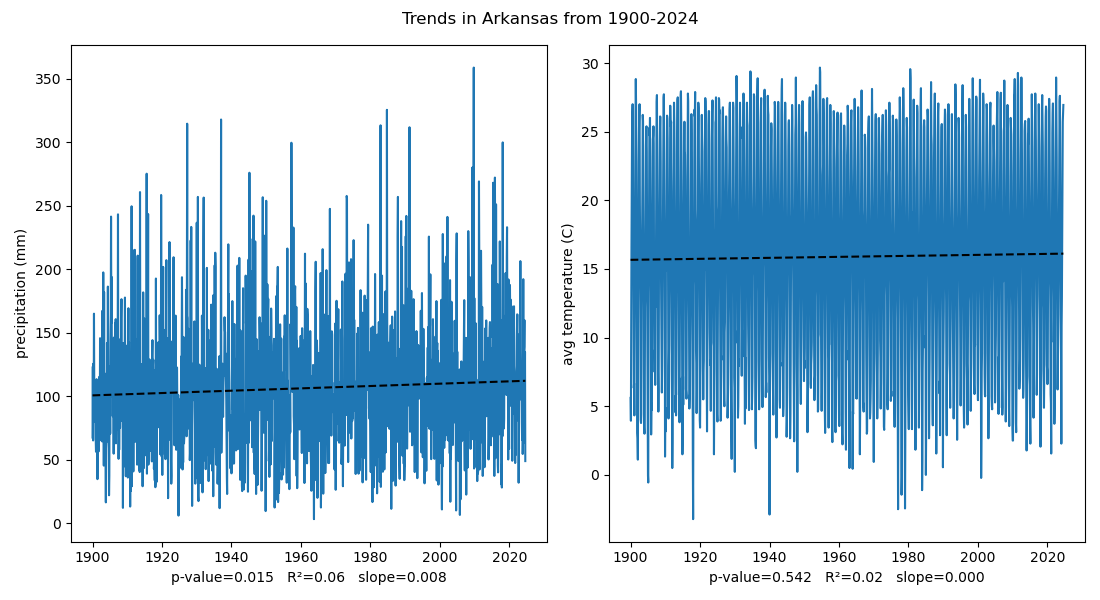
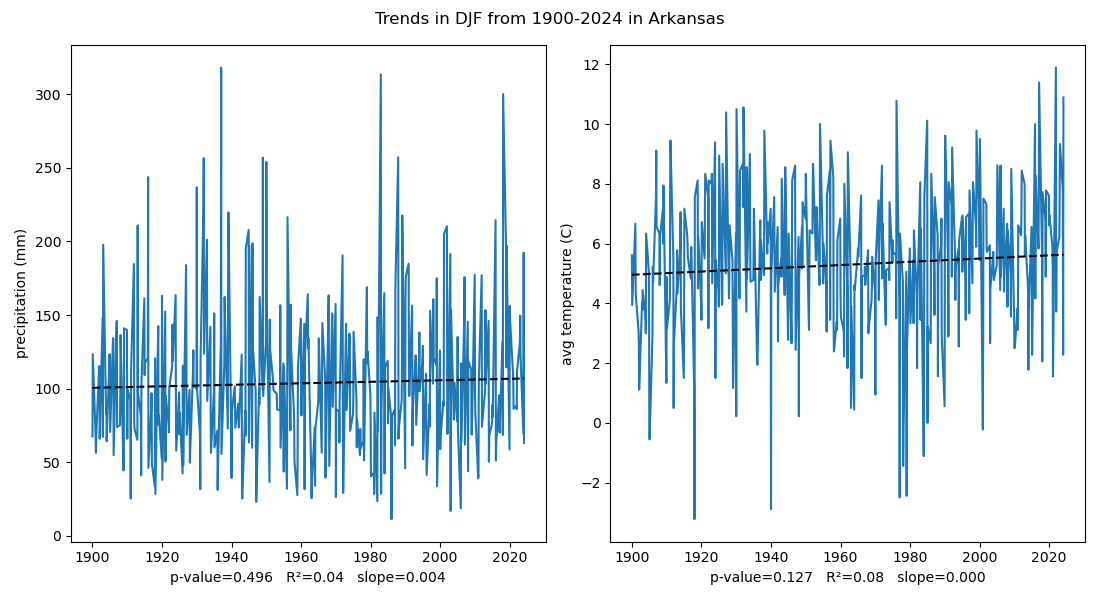
correct months

diff --git a/Arkansas Trends/bb_statewide.py b/Arkansas Trends/bb_statewide.py
@@ -17,8 +17,40 @@ def f_to_c(temp):
 def in_to_mm(precip):
     return (precip*25.4)
 
+
 fig, ax = plt.subplots(1,len(vars), figsize=(11,6))
-fig.suptitle('Trends in Arkansas from 1900-2024')
+fig.suptitle('Trends in DJF from 1900-2024 in Arkansas')
+for i in range(len(vars)):
+    df1 = pd.read_csv(dir+'\\Arkansas Trends/Statewide '+vars[i]+'.csv')
+
+    df1['Date'] = pd.to_datetime(df1['Date'],format='%Y%m')
+    df1['month'] = df1['Date'].dt.month
+    df1 = df1[(df1['month']==1) | (df1['month']==2) | (df1['month']==12)]
+
+    if vars[i] == 'Avg Temp':
+        df1['Converted'] = f_to_c(df1['Value'])
+        
+    if vars[i] == 'Precip':
+        df1['Converted'] = in_to_mm(df1['Value'])
+
+    x=df1['Date']
+    y=df1['Converted']
+    X=np.array(df1.index)
+    Y=np.array(df1['Converted'])
+    slope, intercept, r, p, se = linregress(X,Y)
+
+    ax[i].plot(x,y)
+    ax[i].plot(x,slope*X+intercept,'k--')
+    ax[i].set_xlabel('p-value={:.3f}   R\u00b2={:.2f}   slope={:.3f}'.format(p,r,slope))
+    ax[i].set_ylabel(names[i]+' '+units[i])
+
+plt.tight_layout()
+# plt.show()
+plt.savefig(dir+'\\Arkansas Trends/Statewide Trends.png')
+
+'''
+
+
 
 for i in range(len(vars)):
     df = pd.read_csv(dir+'\\Arkansas Trends/Statewide '+vars[i]+'.csv')
@@ -34,7 +66,7 @@ for i in range(len(vars)):
         df.loc[j,'Date'] = datetime.strptime(str(df.loc[j,'Date']), "%Y%m")
         # df.loc[j,'Month'] = df.loc[j,'Date'].month()
 
-    df = df[(df['month']==1) | (df['month']==1) | (df['month']==12)]
+    df = df[(df['month']==1) | (df['month']==2) | (df['month']==12)]
 
 
     df['Date'] = pd.to_datetime(df['Date'])
@@ -53,3 +85,4 @@ for i in range(len(vars)):
 plt.tight_layout()
 # plt.show()
 plt.savefig(dir+'\\Arkansas Trends/Statewide Trends.png')
+'''
